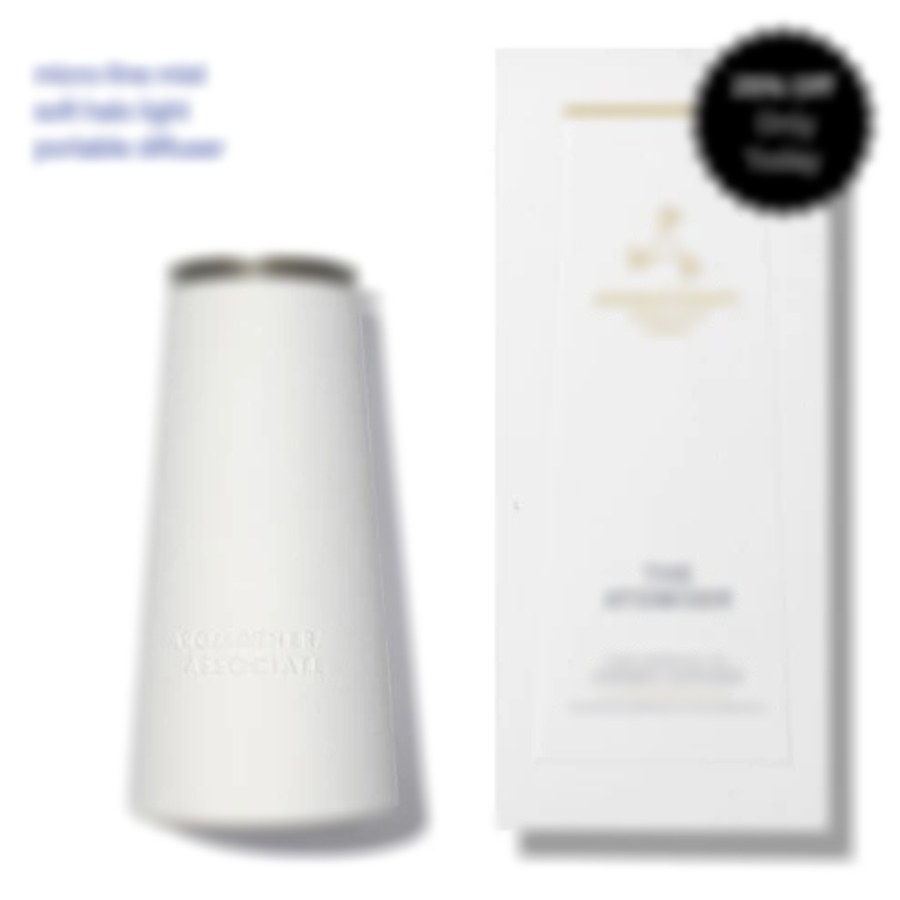
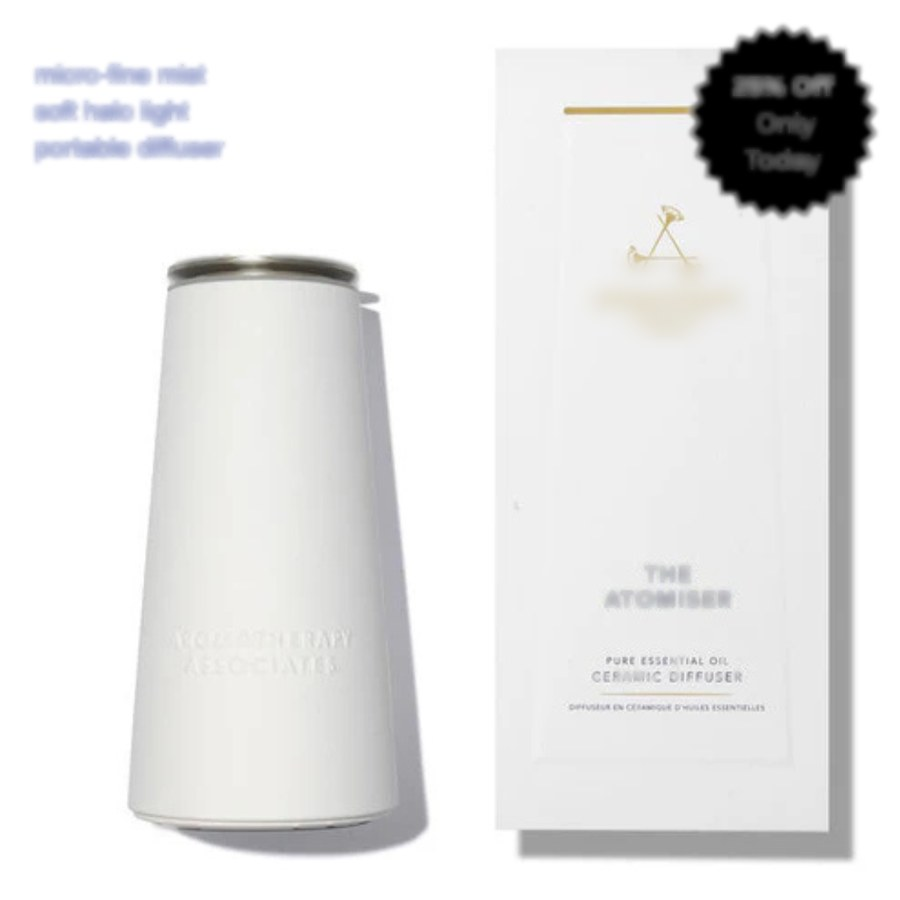
fix(case-studies): blur only the lettering, not the whole creative
Previous pass ran the text mask at two scales with an aggressive threshold and
wide dilation, so it fired on every product outline and petal edge, not just
type. Result was a soft, mushy image — the whole ad looked out of focus.

Now a single 3px gradient at a much higher contrast threshold (78 vs 26) with
tight dilation, so it catches lettering and leaves product surfaces, bottle
edges and foliage sharp. 4-20% of pixels touched instead of most of the frame.

Two brand marks the tighter threshold correctly stopped catching, because they
are low-contrast gold-on-white and light-on-glass, now have explicit boxes: the
wordmark on the diffuser carton and the label on the eye-cream bottle. Those
use a feathered blur rather than a flat fill, since both sit on curved product
surfaces where a fill would show as a patch.

No brand name is legible in any of the six. Product and ingredient names that
are not brand identifiers are deliberately left readable.

diff --git a/work/wellness-brands.html b/work/wellness-brands.html
@@ -227,7 +227,7 @@
       <p class="cs-hero-desc">Two premium wellness brands, run under one retainer. Both looked healthy. Click-through rates were strong, add-to-carts were climbing, clicks cost under a dollar. Underneath, about a quarter of the monthly budget was going to a placement that had never produced a single sale.</p>
     </div>
     <div class="cs-hero-img">
-      <img src="/assets/wellness-brands-cover.jpg?v=639523eb" alt="Premium wellness brands Meta ads placement audit case study" loading="eager">
+      <img src="/assets/wellness-brands-cover.jpg?v=640d498c" alt="Premium wellness brands Meta ads placement audit case study" loading="eager">
     </div>
   </div>
 </section>
@@ -293,12 +293,12 @@
     <h2>The creative</h2>
     <p>Both brands run designed statics built for a 55 to 65+ reader. Larger type, one clear offer, product and ritual rather than ingredient science. Client marks removed and label copy softened below, since both are active clients.</p>
     <div style="display:grid;grid-template-columns:repeat(3,1fr);gap:14px;margin-top:18px;">
-      <img src="/assets/cs-skincare-1.jpg?v=9e1c3bec" alt="Wellness brand hydration ritual static ad" loading="lazy" style="width:100%;border-radius:12px;display:block;">
-      <img src="/assets/cs-skincare-2.jpg?v=18861da8" alt="Wellness brand corrective skincare static ad" loading="lazy" style="width:100%;border-radius:12px;display:block;">
-      <img src="/assets/cs-skincare-3.jpg?v=8635549a" alt="Wellness brand eye cream ingredient static ad" loading="lazy" style="width:100%;border-radius:12px;display:block;">
-      <img src="/assets/cs-aroma-1.jpg?v=ff8b6f47" alt="Aromatherapy brand diffuser static ad" loading="lazy" style="width:100%;border-radius:12px;display:block;">
-      <img src="/assets/cs-aroma-2.jpg?v=09281d41" alt="Aromatherapy brand discovery collection static ad" loading="lazy" style="width:100%;border-radius:12px;display:block;">
-      <img src="/assets/cs-aroma-3.jpg?v=3c98fe9c" alt="Aromatherapy brand evening ritual static ad" loading="lazy" style="width:100%;border-radius:12px;display:block;">
+      <img src="/assets/cs-skincare-1.jpg?v=19a6932b" alt="Wellness brand hydration ritual static ad" loading="lazy" style="width:100%;border-radius:12px;display:block;">
+      <img src="/assets/cs-skincare-2.jpg?v=daf421fc" alt="Wellness brand corrective skincare static ad" loading="lazy" style="width:100%;border-radius:12px;display:block;">
+      <img src="/assets/cs-skincare-3.jpg?v=6484e996" alt="Wellness brand eye cream ingredient static ad" loading="lazy" style="width:100%;border-radius:12px;display:block;">
+      <img src="/assets/cs-aroma-1.jpg?v=5fb787a0" alt="Aromatherapy brand diffuser static ad" loading="lazy" style="width:100%;border-radius:12px;display:block;">
+      <img src="/assets/cs-aroma-2.jpg?v=72e17ac6" alt="Aromatherapy brand discovery collection static ad" loading="lazy" style="width:100%;border-radius:12px;display:block;">
+      <img src="/assets/cs-aroma-3.jpg?v=08d1d602" alt="Aromatherapy brand evening ritual static ad" loading="lazy" style="width:100%;border-radius:12px;display:block;">
     </div>
   </div>
 

diff --git a/case-studies.html b/case-studies.html
@@ -358,7 +358,7 @@
 
   <a href="/work/wellness-brands" class="cs-card" data-cat="dtc">
     <div class="cs-card-img">
-      <img src="/assets/wellness-brands-cover.jpg?v=639523eb" alt="Premium wellness brands Meta placement audit case study" loading="lazy">
+      <img src="/assets/wellness-brands-cover.jpg?v=640d498c" alt="Premium wellness brands Meta placement audit case study" loading="lazy">
     </div>
     <div class="cs-card-body">
       <div class="cs-card-tag"><span class="tag-dtc">eComm / Wellness</span><span class="tag-dtc" style="background:rgba(234,88,12,0.05);">Meta</span></div>
